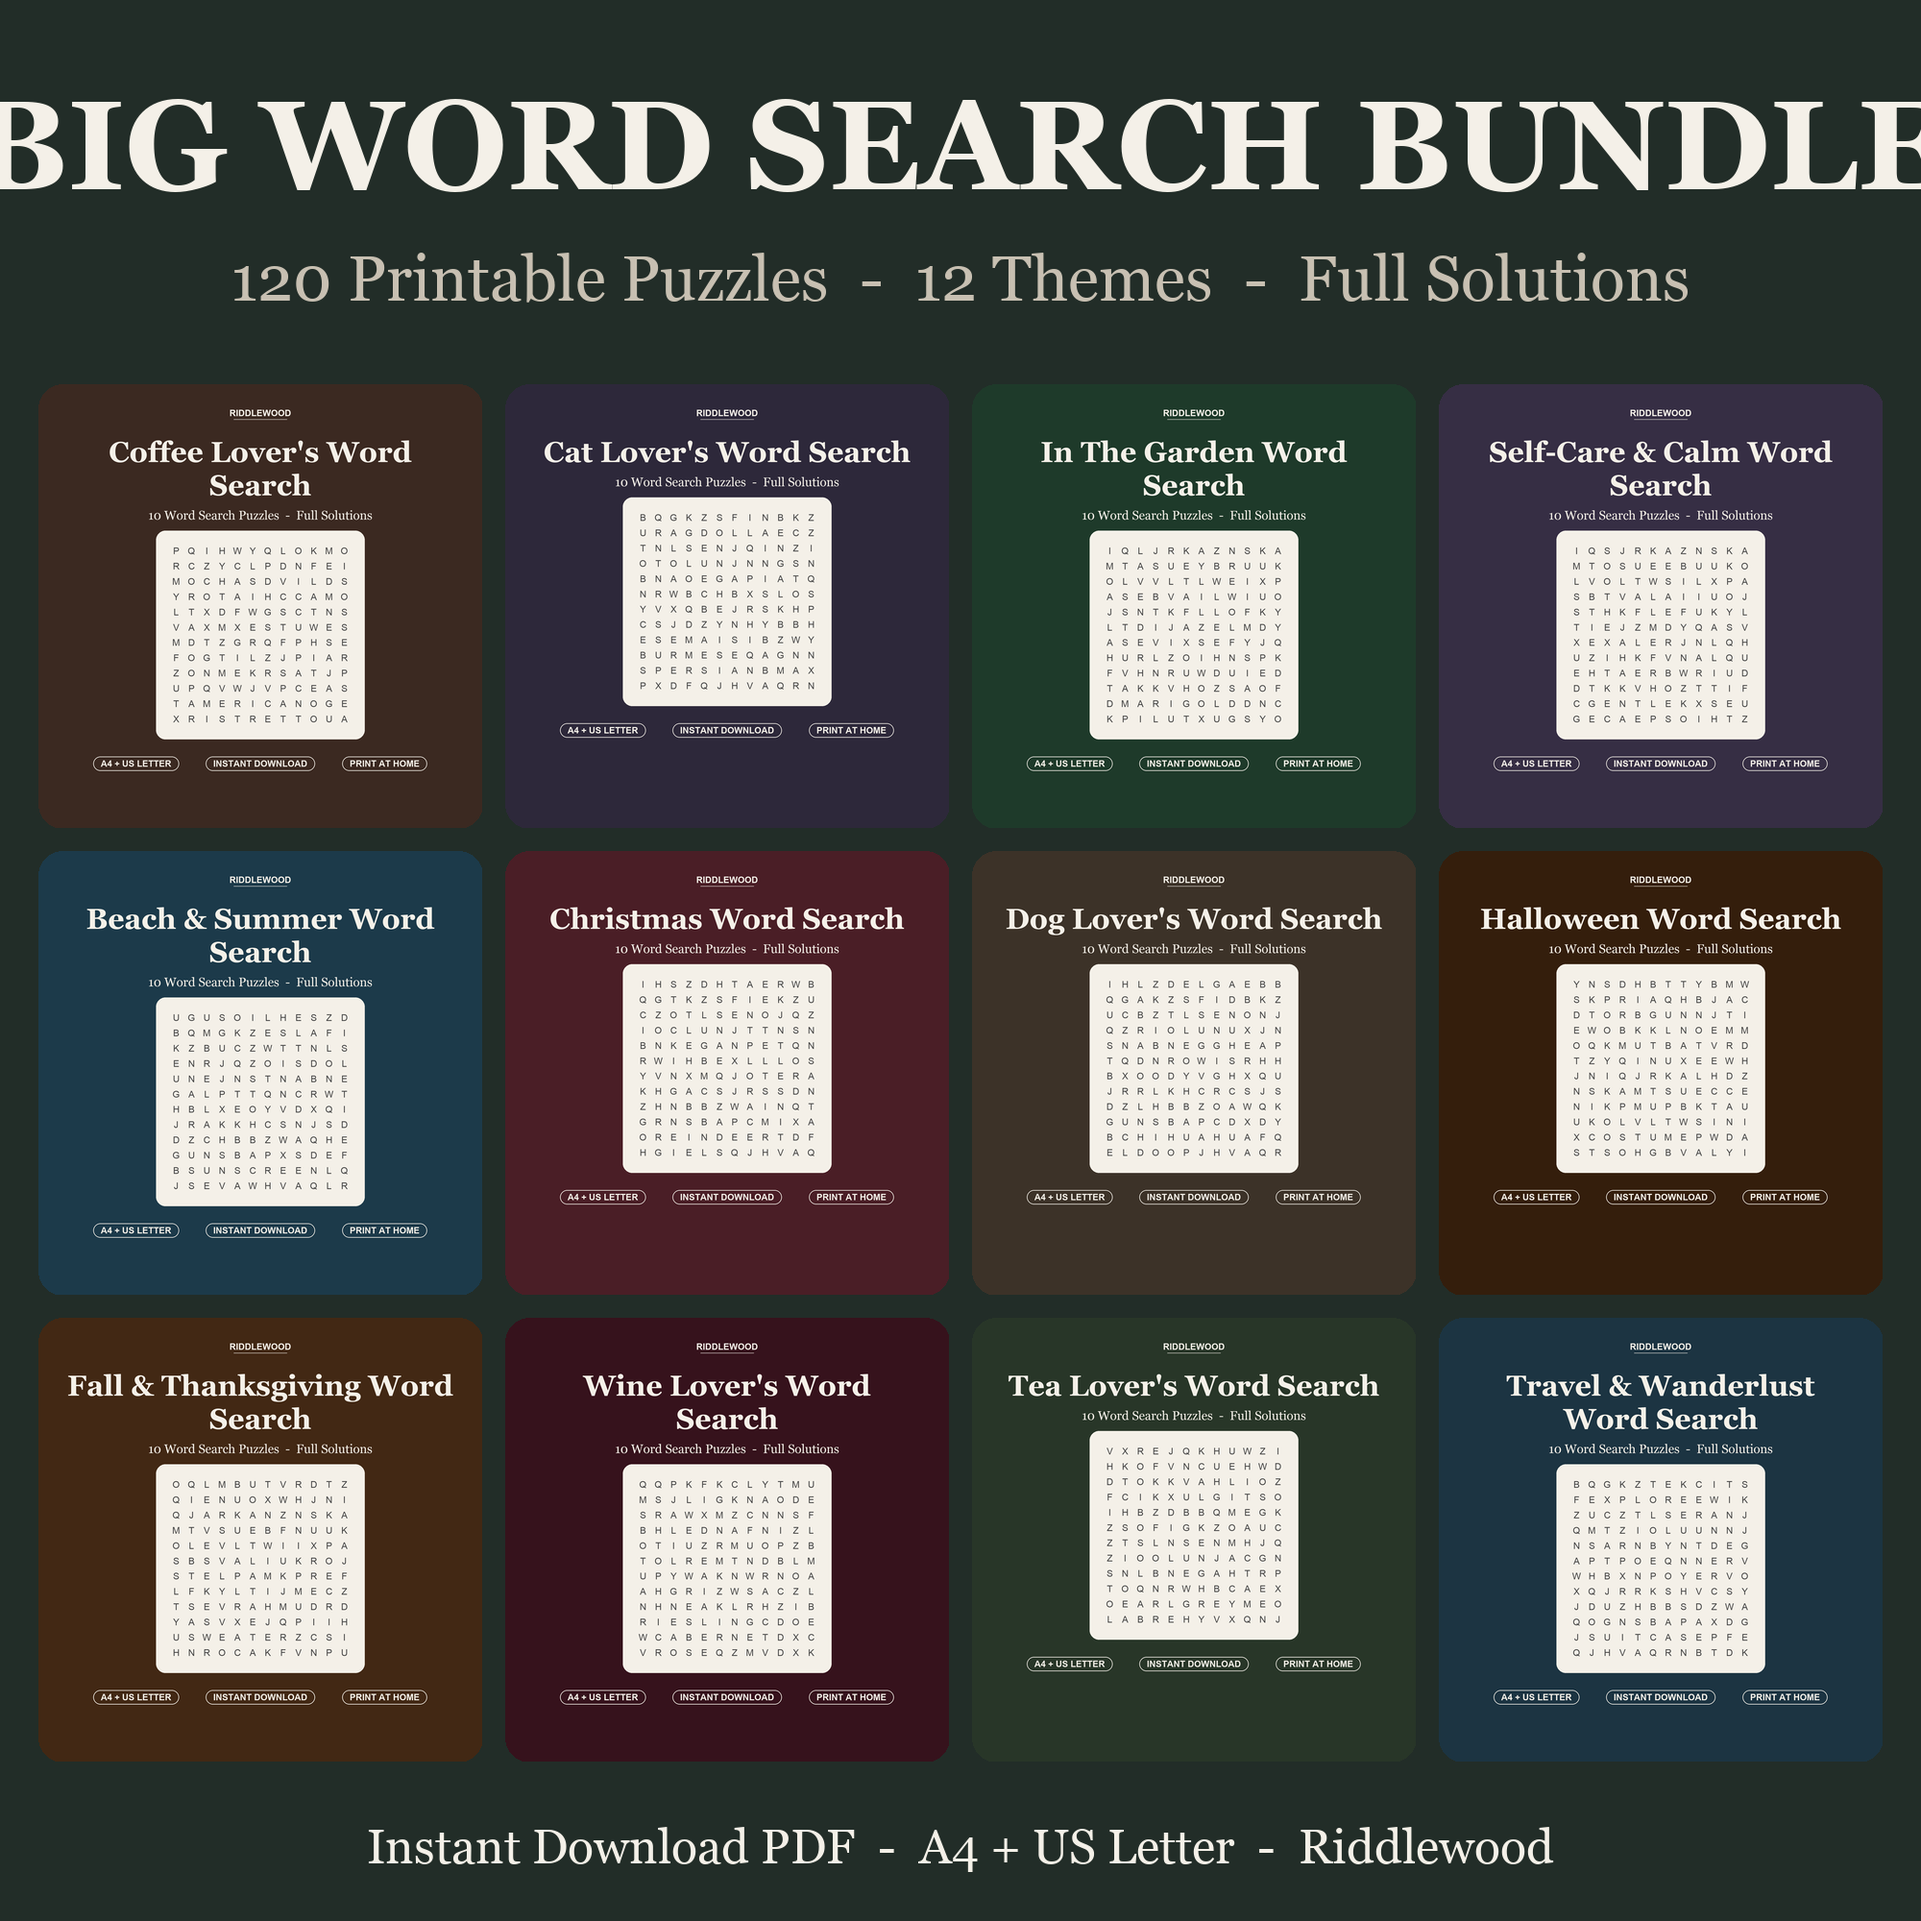
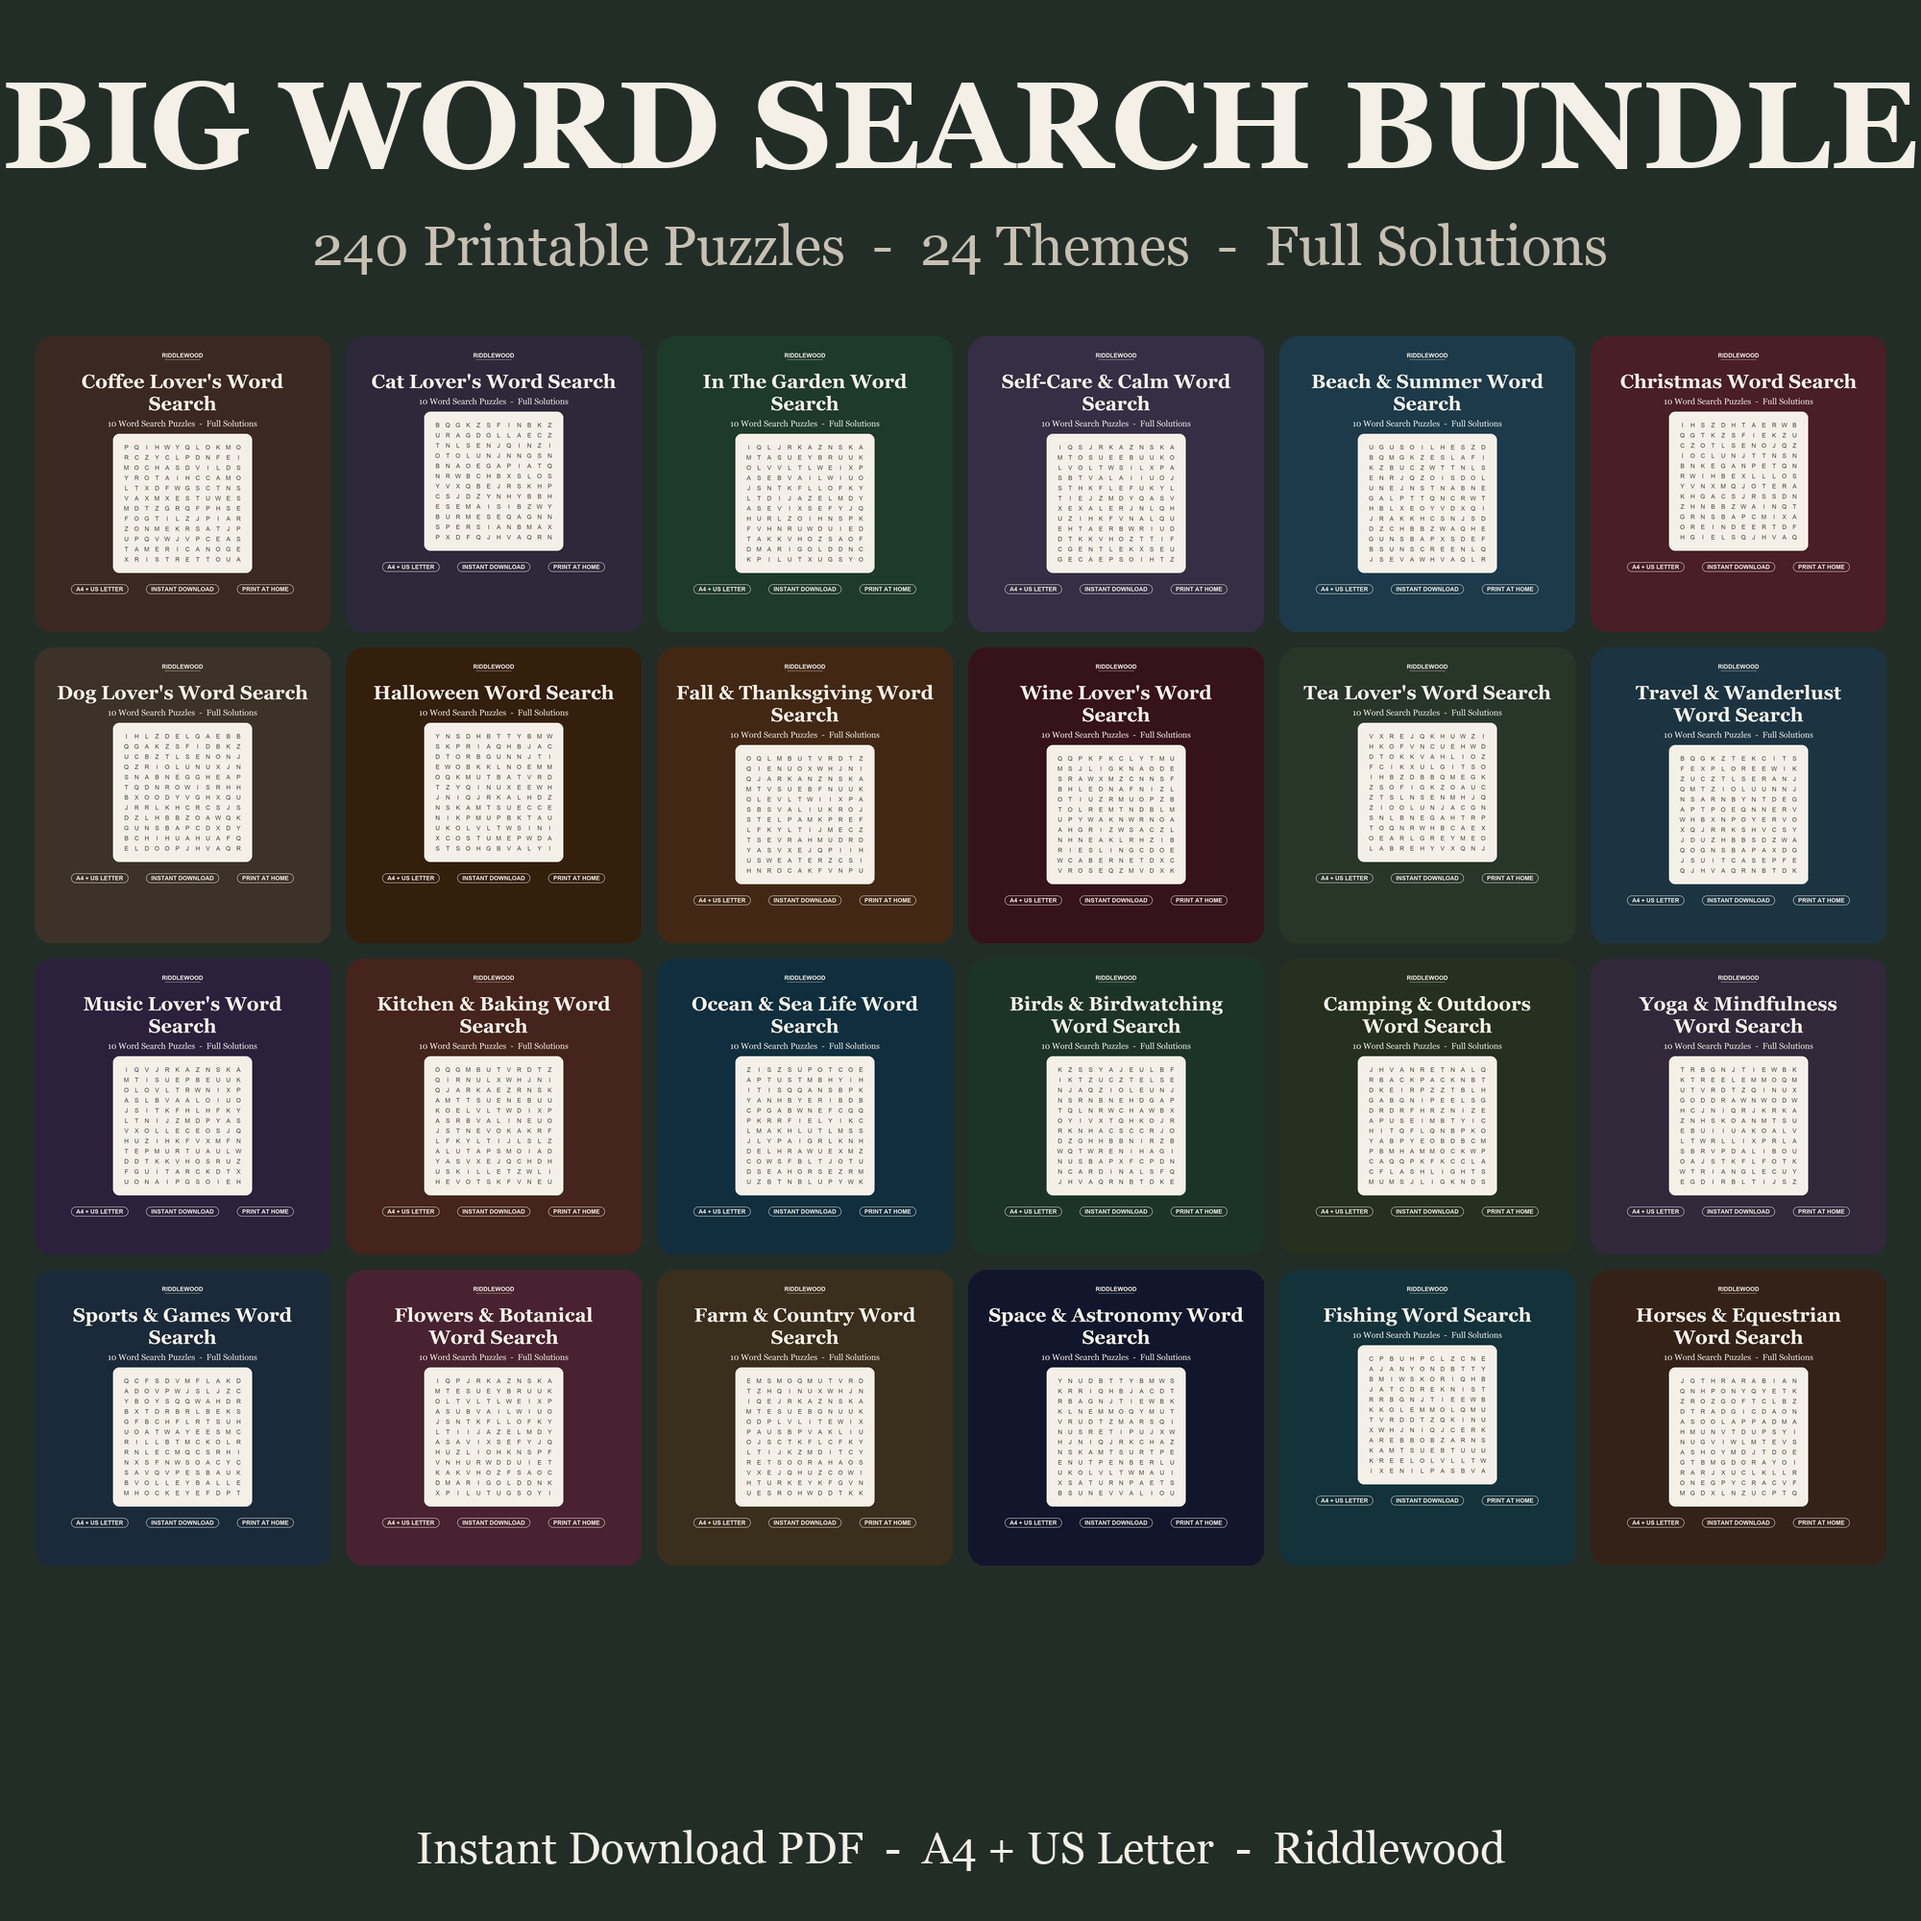
feat(etsy): expand live bundle to 240 puzzles/24 themes (new cover+file via API)

diff --git a/products/generator/bundle_images.py b/products/generator/bundle_images.py
@@ -1,7 +1,7 @@
-"""Bundle listing images: a 12-cover collage + a 'what's inside' overview.
+"""Bundle listing images: an all-theme cover collage + a 'what's inside' list.
 
-Reuses the per-pack etsy_main covers so the bundle visibly shows all 12 themes
-(the single coffee cover misrepresents a 12-theme bundle). Outputs to
+Reuses every per-pack etsy_main cover so the bundle visibly shows all themes.
+Grid + list scale to however many themes exist. Outputs to
 products/big-word-search-bundle/img/.
 
 Run:  .venv/bin/python products/generator/bundle_images.py
@@ -16,58 +16,57 @@ from themes import THEMES
 OUT = ROOT / "big-word-search-bundle" / "img"
 OUT.mkdir(parents=True, exist_ok=True)
 S = 2000
+N = len(THEMES)
+PUZZLES = N * 10
 
 
 def _footer(draw, text, color=CREAM):
-    draw.text((S / 2, S - 78), text, font=font(SERIF, 50), fill=color, anchor="mm")
+    draw.text((S / 2, S - 76), text, font=font(SERIF, 46), fill=color, anchor="mm")
 
 
 def collage():
     img = Image.new("RGB", (S, S), BRAND_COLOR)
     draw = ImageDraw.Draw(img)
-    # title band
-    draw.text((S / 2, 150), "BIG WORD SEARCH BUNDLE", font=font(SERIF_B, 132),
+    draw.text((S / 2, 130), "BIG WORD SEARCH BUNDLE", font=font(SERIF_B, 128),
               fill=CREAM, anchor="mm")
-    draw.text((S / 2, 290), "120 Printable Puzzles  -  12 Themes  -  Full Solutions",
-              font=font(SERIF, 66), fill=(200, 192, 178), anchor="mm")
-    # 4 x 3 grid of the etsy_main covers
-    margin, gap, top = 40, 24, 400
-    cell = (S - 2 * margin - 3 * gap) // 4
-    for i, t in enumerate(THEMES[:12]):
+    draw.text((S / 2, 255), f"{PUZZLES} Printable Puzzles  -  {N} Themes  -  Full Solutions",
+              font=font(SERIF, 58), fill=(200, 192, 178), anchor="mm")
+    cols, margin, gap, top = 6, 36, 16, 350
+    cell = (S - 2 * margin - (cols - 1) * gap) // cols
+    for i, t in enumerate(THEMES):
         p = ROOT / t["slug"] / "img" / f"{t['slug']}_etsy_main.png"
         thumb = Image.open(p).convert("RGB").resize((cell, cell), Image.LANCZOS)
-        # rounded mask
         mask = Image.new("L", (cell, cell), 0)
-        ImageDraw.Draw(mask).rounded_rectangle([0, 0, cell, cell], radius=cell // 18, fill=255)
-        col, row = i % 4, i // 4
+        ImageDraw.Draw(mask).rounded_rectangle([0, 0, cell, cell], radius=cell // 16, fill=255)
+        col, row = i % cols, i // cols
         x = margin + col * (cell + gap)
         y = top + row * (cell + gap)
         img.paste(thumb, (x, y), mask)
     _footer(draw, "Instant Download PDF  -  A4 + US Letter  -  Riddlewood")
     img.save(OUT / "bundle_main.png")
-    print("wrote", OUT / "bundle_main.png")
+    print("wrote", OUT / "bundle_main.png", f"({N} covers)")
 
 
 def whats_inside():
     img = Image.new("RGB", (S, S), CREAM)
     draw = ImageDraw.Draw(img)
-    draw.text((S / 2, 170), "What's Inside", font=font(SERIF_B, 150),
+    draw.text((S / 2, 150), "What's Inside", font=font(SERIF_B, 140),
               fill=BRAND_COLOR, anchor="mm")
-    draw.text((S / 2, 300), "12 themed packs - 10 puzzles each - 120 total",
-              font=font(SERIF, 60), fill=(90, 84, 78), anchor="mm")
-    names = [t["title"].replace(" Word Search", "") for t in THEMES[:12]]
-    col_x, start_y, line_h = [560, 1180], 470, 150
+    draw.text((S / 2, 268), f"{N} themed packs - 10 puzzles each - {PUZZLES} total",
+              font=font(SERIF, 56), fill=(90, 84, 78), anchor="mm")
+    names = [t["title"].replace(" Word Search", "") for t in THEMES]
+    per_col = (N + 1) // 2
+    col_x, start_y, line_h = [430, 1150], 420, 116
     for i, name in enumerate(names):
-        x = col_x[i // 6]
-        y = start_y + (i % 6) * line_h
-        sw = t = THEMES[i]["color"]
-        draw.ellipse([x - 150, y - 18, x - 114, y + 18], fill=THEMES[i]["color"])
-        draw.text((x - 96, y), name, font=font(SERIF, 62), fill=BRAND_COLOR, anchor="lm")
-    draw.text((S / 2, S - 150), "+ full answer keys  -  A4 and US Letter  -  print at home",
-              font=font(SERIF, 52), fill=(90, 84, 78), anchor="mm")
+        x = col_x[i // per_col]
+        y = start_y + (i % per_col) * line_h
+        draw.ellipse([x - 150, y - 15, x - 120, y + 15], fill=THEMES[i]["color"])
+        draw.text((x - 100, y), name, font=font(SERIF, 52), fill=BRAND_COLOR, anchor="lm")
+    draw.text((S / 2, S - 140), "+ full answer keys  -  A4 and US Letter  -  print at home",
+              font=font(SERIF, 50), fill=(90, 84, 78), anchor="mm")
     _footer(draw, "Riddlewood", color=(120, 112, 104))
     img.save(OUT / "bundle_whats_inside.png")
-    print("wrote", OUT / "bundle_whats_inside.png")
+    print("wrote", OUT / "bundle_whats_inside.png", f"({N} themes)")
 
 
 if __name__ == "__main__":

diff --git a/automation/etsy_api/listings_data.py b/automation/etsy_api/listings_data.py
@@ -306,11 +306,12 @@ def bundle():
     base = ROOT / "products" / slug
     images = [str(base / "img" / "bundle_main.png"), str(base / "img" / "bundle_whats_inside.png")]
     return {"slug": slug, "price": BUNDLE_PRICE, "file": str(base / f"{slug}.zip"), "images": images,
-            "title": "Word Search Bundle Printable | 120 Adult Word Search Puzzles PDF | 12 Themes | Instant Download Gift",
+            "title": "Word Search Bundle Printable | 240 Adult Word Search Puzzles PDF | 24 Themes | Instant Download Gift",
             "tags": ["word search bundle", "printable puzzles", "puzzle bundle pdf", "word search pdf",
                      "adult word search", "puzzle book pdf", "gift for grandma", "instant download",
                      "word puzzle game", "puzzles for adults", "activity printable", "senior activity", "large print puzzle"],
-            "description": "The whole collection! 12 themed packs - Coffee, Cats, Dogs, Garden, Self-Care, Beach, "
-                           "Christmas, Halloween, Fall, Wine, Tea and Travel - 120 word search puzzles with full solutions. Best value.\n\n"
-                           "WHAT YOU GET: 120 unique puzzles across 12 themes + answer keys, in A4 and US Letter.\n\n"
+            "description": "The whole collection! 24 themed packs - 240 word search puzzles with full solutions. Best value!\n\n"
+                           "THEMES: Coffee, Cat, Garden, Self-Care, Beach, Christmas, Dog, Halloween, Fall, Wine, Tea, Travel, "
+                           "Music, Kitchen & Baking, Ocean, Birds, Camping, Yoga, Sports, Flowers, Farm, Space, Fishing and Horses.\n\n"
+                           "WHAT YOU GET: 240 unique puzzles across 24 themes + answer keys, in A4 and US Letter.\n\n"
                            "Instant digital download. No physical item. Personal use only; no resale.\n(c) Riddlewood"}

diff --git a/automation/etsy_api/etsy_client.py b/automation/etsy_api/etsy_client.py
@@ -144,6 +144,22 @@ class EtsyClient:
                              f"/shops/{shop_id}/listings/{listing_id}/files",
                              data={"name": fname}, files=files)
 
+    def list_images(self, shop_id: int, listing_id: int):
+        # Etsy quirk: getListingImages has NO shop_id in the path (unlike upload/delete)
+        return self._req("GET", f"/listings/{listing_id}/images").get("results", [])
+
+    def delete_image(self, shop_id: int, listing_id: int, image_id: int):
+        return self._req("DELETE", f"/shops/{shop_id}/listings/{listing_id}/images/{image_id}")
+
+    def list_files(self, shop_id: int, listing_id: int):
+        return self._req("GET", f"/shops/{shop_id}/listings/{listing_id}/files").get("results", [])
+
+    def delete_file(self, shop_id: int, listing_id: int, file_id: int):
+        return self._req("DELETE", f"/shops/{shop_id}/listings/{listing_id}/files/{file_id}")
+
+    def update_listing(self, shop_id: int, listing_id: int, **fields):
+        return self._req("PATCH", f"/shops/{shop_id}/listings/{listing_id}", data=fields)
+
 
 if __name__ == "__main__":
     c = EtsyClient()

diff --git a/planning/progress.md b/planning/progress.md
@@ -118,3 +118,8 @@
 - publish_all.py → 6 draft via API → PATCH active → **shop 25 listing attivi** (24 pack €4.49 + bundle). Catalogo ora **24 temi / 240 puzzle**. Fee 6×€0.20.
 - Bundle zip locale ora 240 puzzle (build.py) ma listing live sempre 120 (non ri-pubblicato) — vedi nota bundle sopra.
 - Pin per i 12 nuovi temi (music…horses) → prossimi giorni via share-URL (1-3/gg).
+
+## 2026-06-29 (bundle live espanso a 240/24)
+- Bundle live aggiornato via API a **240 puzzle / 24 temi** (era 120/12): title + description + **cover collage 24** (bundle_images.py ora 6×4 dinamico + lista 24) + **file zip 240** ricaricato. Vecchio file + 2 vecchie immagini eliminati.
+- etsy_client: aggiunti list_images/delete_image/list_files/delete_file/update_listing. **Quirk Etsy:** getListingImages = path SENZA shop_id (`/listings/{id}/images`); getListing idem (`/listings/{id}`); upload/delete/patch = CON shop_id. 
+- Verificato live: title "240...24 Themes", state active, 1 file, 2 immagini, shop 25 attivi. Divergenza bundle risolta.
